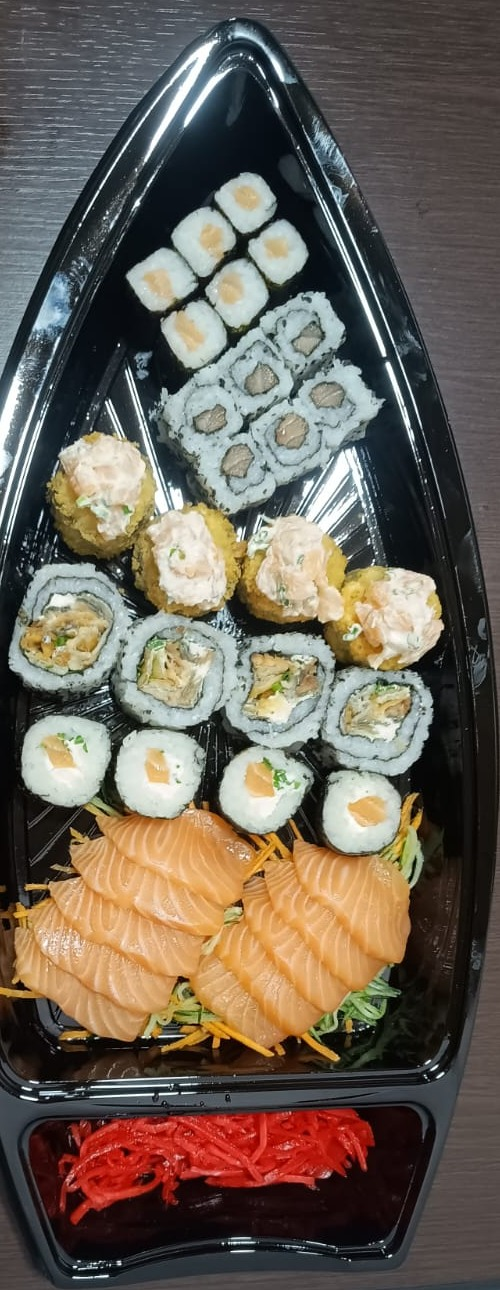
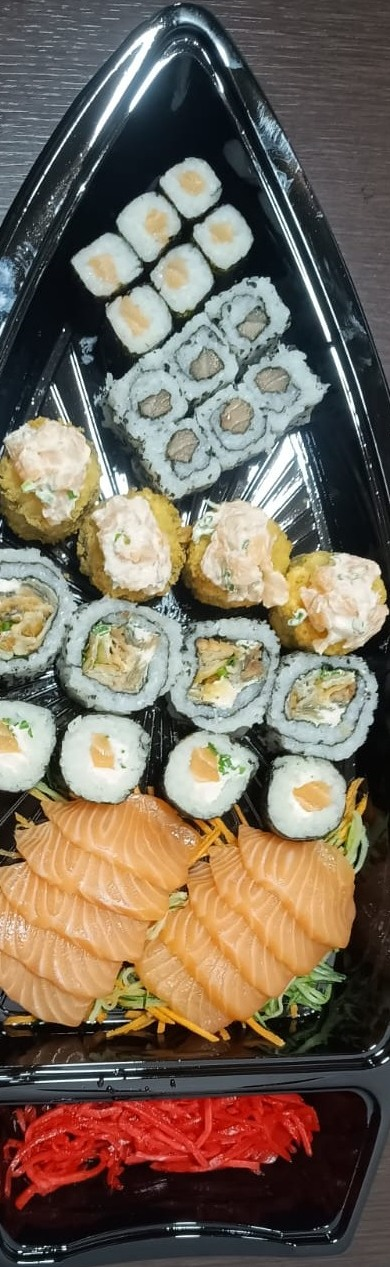
Troca foto da secao Sobre e remove fundo de mesa/parede de 3 fotos do cardapio
- Secao "Sobre": nova foto (barca vista de cima, fundo preto) no lugar da barca
  salmao que estava reaproveitada ali
- Corrigido fundo: barca-salmao, mini-barca-salmao e combinado-sushi-uramaki
  ainda mostravam mesa de madeira/mesa branca nas bordas; recortadas para
  mostrar so a bandeja preta, igual as demais fotos do cardapio

diff --git a/src/app/App.tsx b/src/app/App.tsx
@@ -8,7 +8,7 @@ import { CartDrawer } from "@/app/components/CartDrawer";
 import { buildOrderMessage, type CartLine, type DeliveryMode, type PaymentInfo, type DeliveryPaymentMethod } from "@/app/cart-data";
 import logoFull from "@/imports/logo-transparent.png";
 import logoIcon from "@/imports/logo-mark.png";
-import { BARCAS, COMBINADOS, TEMAKIS, HOT_ROLLS, URAMAKIS, HOSSOMAKIS_OUTROS, DEFAULT_PROMO_CONFIG, ALL_MENU_ITEMS, imgBarcaSalmao, type MenuItem } from "@/app/menu-data";
+import { BARCAS, COMBINADOS, TEMAKIS, HOT_ROLLS, URAMAKIS, HOSSOMAKIS_OUTROS, DEFAULT_PROMO_CONFIG, ALL_MENU_ITEMS, imgBarcaSobre, type MenuItem } from "@/app/menu-data";
 
 const WHATSAPP_NUMBER = "5511994597259";
 
@@ -463,7 +463,7 @@ export default function App() {
         <div className="max-w-7xl mx-auto px-6 grid grid-cols-1 lg:grid-cols-2 gap-16 items-center">
           <div className="relative">
             <div className="aspect-square overflow-hidden bg-secondary">
-              <ImageWithFallback src={imgBarcaSalmao}
+              <ImageWithFallback src={imgBarcaSobre}
                 alt="Sushi fresco preparado por Esthan Sushi" className="w-full h-full object-cover" />
             </div>
             <div className="absolute -bottom-6 -right-6 w-40 h-40 bg-primary flex-col items-center justify-center text-center p-4 hidden lg:flex">

diff --git a/src/app/menu-data.ts b/src/app/menu-data.ts
@@ -32,6 +32,8 @@ import imgUramakiSalmao from "@/imports/pratos/uramaki-salmao.jpeg";
 import imgUramakiFiladelfia from "@/imports/pratos/uramaki-filadelfia.jpeg";
 import imgSushiFiladelfia from "@/imports/pratos/sushi-filadelfia.jpeg";
 import imgUramakiSkin from "@/imports/pratos/uramaki-skin.jpeg";
+// foto usada só na seção "Sobre" (vista de cima de uma barca completa)
+import imgBarcaSobre from "@/imports/pratos/barca-sobre.jpeg";
 
 export type MenuItem = {
   name: string;
@@ -140,5 +142,5 @@ export const MENU_CATEGORIES: { title: string; items: MenuItem[] }[] = [
 
 export const ALL_MENU_ITEMS: MenuItem[] = MENU_CATEGORIES.flatMap((c) => c.items);
 
-// reaproveitada na seção "Sobre" do site (substitui uma foto de banco de imagens antiga)
-export { imgBarcaSalmao };
+// foto usada na seção "Sobre" do site
+export { imgBarcaSobre };
